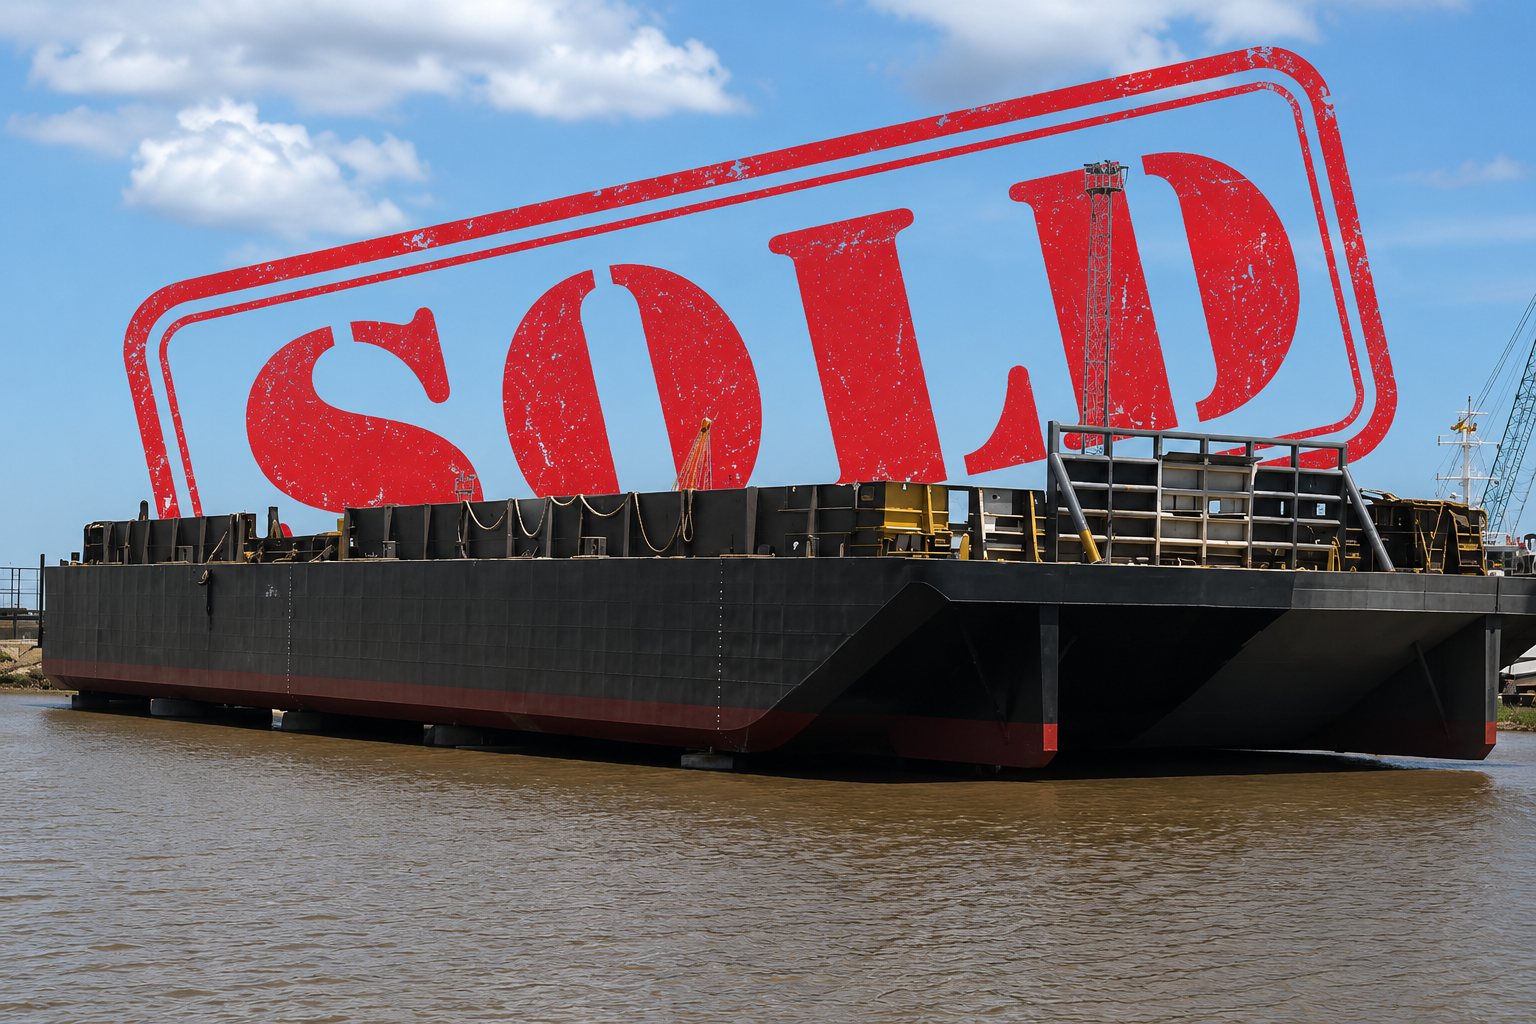
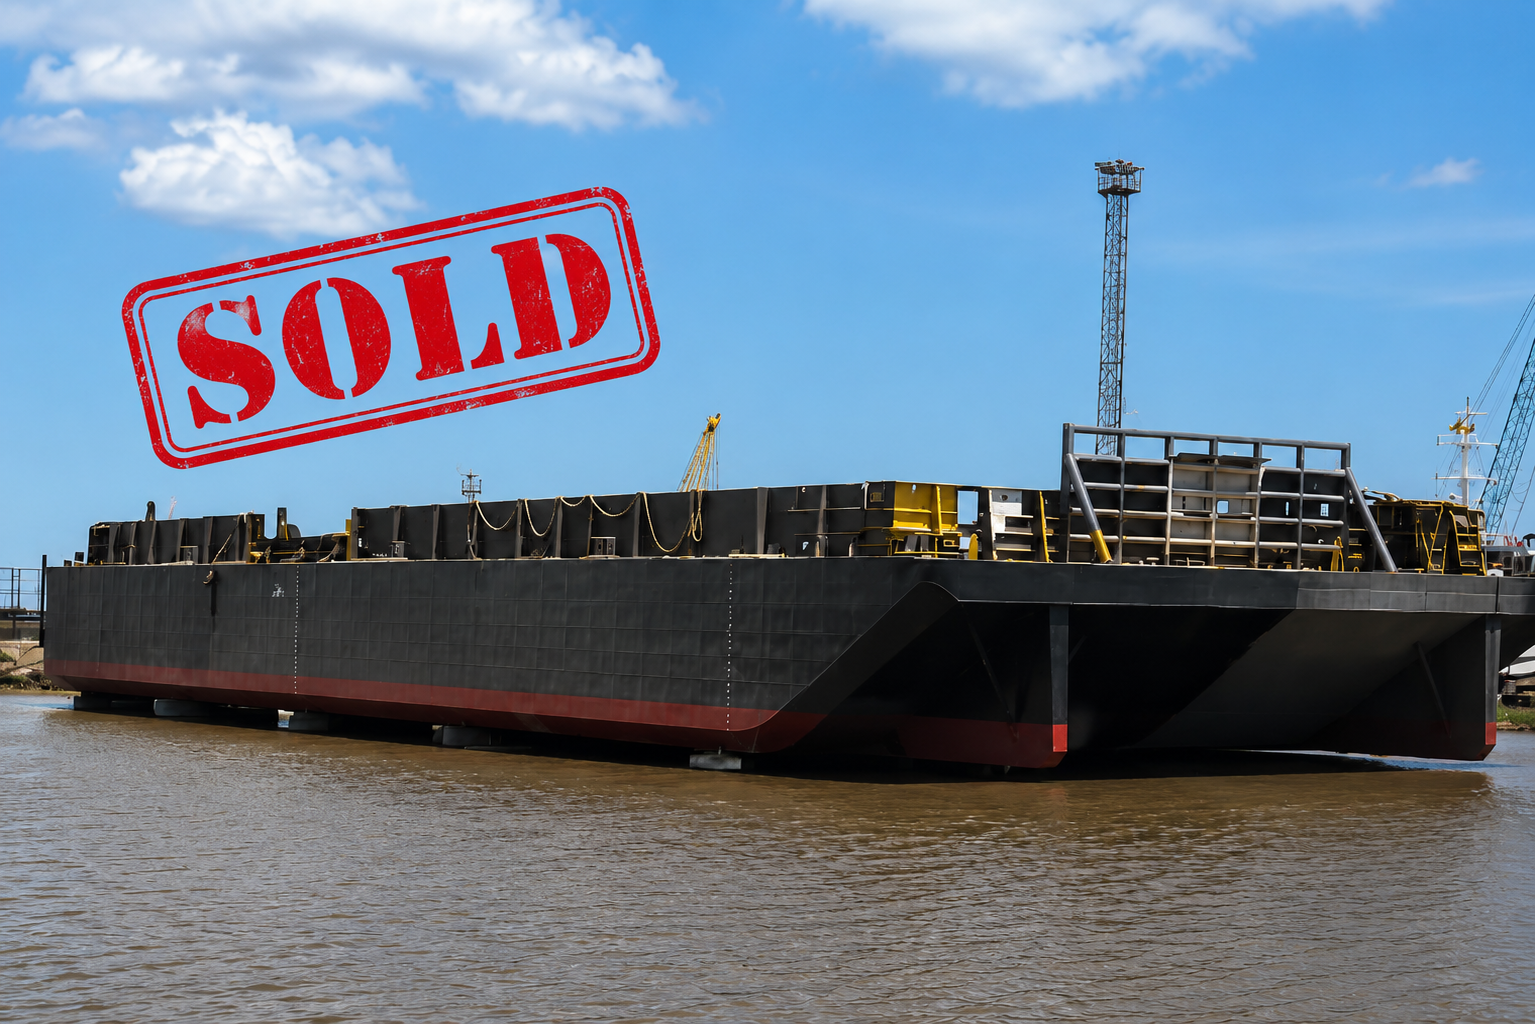
Update project images and image fitting for proper display

diff --git a/src/App.tsx b/src/App.tsx
@@ -494,7 +494,7 @@ const services = [
       "Ensuring that all parties to the agreement remain comfortable throughout the duration of the contract",
       "We have extended our scope of competencies to the growing Offshore Wind Power sector & emerging Marine Renewable Energies (MRE)"
     ],
-    image: "https://images.unsplash.com/photo-1559139225-300456543b56?auto=format&fit=crop&q=80&w=800"
+    image: "/img/chartering_ops.png"
   },
   {
     title: "Market intelligence and Chartering reports",
@@ -525,7 +525,7 @@ const services = [
       "Tonnage For Recycling",
       "Fishing Vessels"
     ],
-    image: "https://images.unsplash.com/photo-1566232392379-afd9298e6a46?auto=format&fit=crop&q=80&w=800"
+    image: "/img/marine_asset_trans.png"
   },
   {
     title: "End to End Solutions for movement of Heavy Lift & Project Cargo",
@@ -536,7 +536,7 @@ const services = [
       "We have the staff, knowledge, and carriers to create an end-to-end logistics solution to get the job done",
       "We are capable of handling any shipment for import or export cargo"
     ],
-    image: "https://images.unsplash.com/photo-1494412574743-01958ee16519?auto=format&fit=crop&q=80&w=800"
+    image: "/img/project_cargo.png"
   },
   {
     title: "Project Management",
@@ -551,7 +551,7 @@ const services = [
       "Seminars & Conferences",
       "Legal and Regulatory Consultancy"
     ],
-    image: "https://images.unsplash.com/photo-1521737711867-e3b97375f902?auto=format&fit=crop&q=80&w=800"
+    image: "/img/offshore_logistics.png"
   },
   {
     title: "Catering Management",
@@ -681,7 +681,7 @@ const ProjectCard = ({ project, index }: { project: any, index: number }) => {
         {project.type === 'video' ? (
           <video 
             src={project.video} 
-            className={`w-full h-full object-cover ${project.rotation || ''} scale-[1.8]`}
+            className={`w-full h-full ${project.objectFit || 'object-cover'} ${project.rotation || ''} scale-[1.8]`}
             autoPlay
             muted
             loop
@@ -696,14 +696,14 @@ const ProjectCard = ({ project, index }: { project: any, index: number }) => {
               animate={{ opacity: 1 }}
               exit={{ opacity: 0 }}
               transition={{ duration: 0.5 }}
-              className="w-full h-full object-cover"
+              className={`w-full h-full ${project.objectFit || 'object-cover'}`}
             />
           </AnimatePresence>
         ) : (
           <img 
             src={project.image} 
             alt={project.title} 
-            className="w-full h-full object-cover transition-transform duration-700 group-hover:scale-110"
+            className={`w-full h-full ${project.objectFit || 'object-cover'} transition-transform duration-700 group-hover:scale-110`}
             onError={(e) => {
               (e.target as HTMLImageElement).src = 'https://images.unsplash.com/photo-1566232392379-afd9298e6a46?auto=format&fit=crop&q=80&w=800';
             }}
@@ -742,7 +742,8 @@ const Projects = () => {
       title: "GENESIS ALPHA",
       icon: <Anchor className="w-5 h-5 text-blue-600" />,
       type: "image",
-      image: "/img/Projects/Genesis Alpha.png",
+      objectFit: "object-contain",
+      image: "/img/Projects/Genesis_Alpha_new.jpg",
       points: [
         "Year of Built: 2006",
         "Flag: St. Kitts & Nevis",
@@ -768,6 +769,7 @@ const Projects = () => {
       title: "DRA 1 – 3200 BHP",
       icon: <Anchor className="w-5 h-5 text-blue-600" />,
       type: "slider",
+      objectFit: "object-contain",
       images: ["/img/Projects/DRA-1.jpg", "/img/Projects/dra-1(1).jpg"],
       points: [
         "Year of Built: 2006",
@@ -781,6 +783,7 @@ const Projects = () => {
       title: "FAIRMACS NICOBAR - 3200 BHP",
       icon: <Anchor className="w-5 h-5 text-blue-600" />,
       type: "slider",
+      objectFit: "object-contain",
       images: ["/img/Projects/FairmacsNicobar.jpg", "/img/Projects/FairmacsNicobar(1).jpg"],
       points: [
         "Year of Built: 2006",
@@ -794,6 +797,7 @@ const Projects = () => {
       title: "AQUA TOW – 3600 BHP",
       icon: <Anchor className="w-5 h-5 text-blue-600" />,
       type: "image",
+      objectFit: "object-contain",
       image: "/img/Projects/Aqua-tow.jpg",
       points: [
         "Year of Built: 2010",
